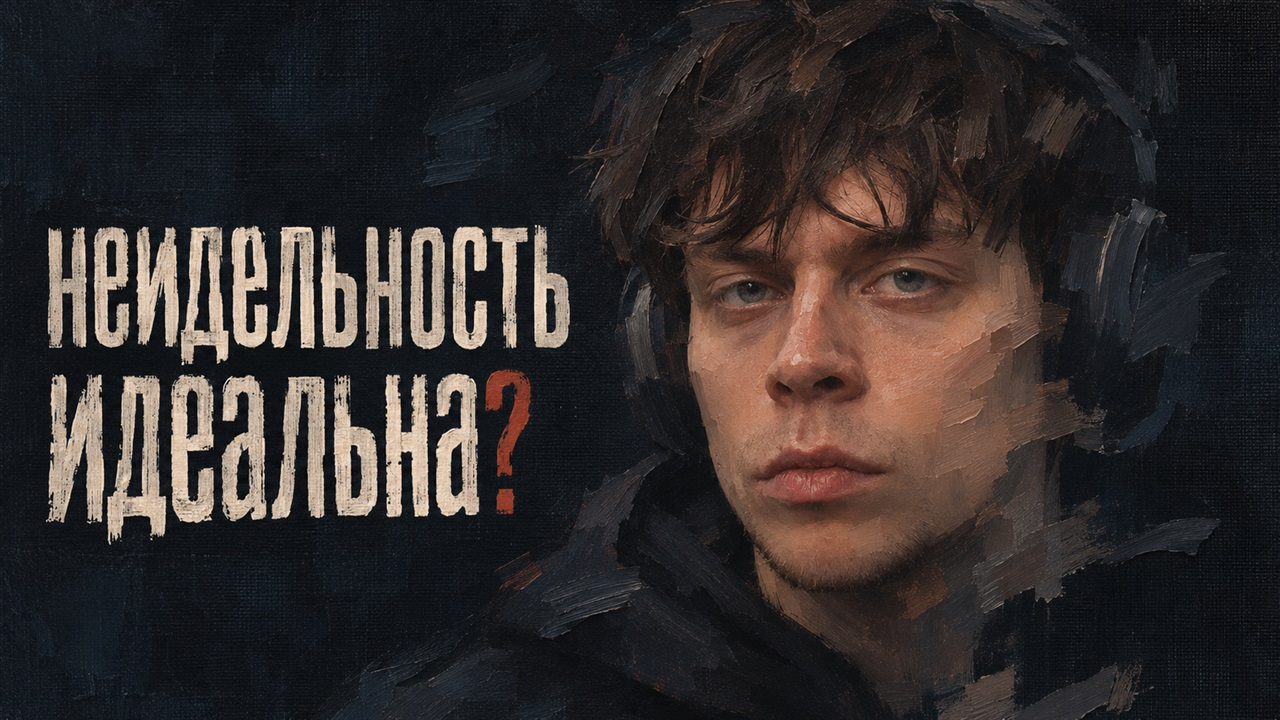
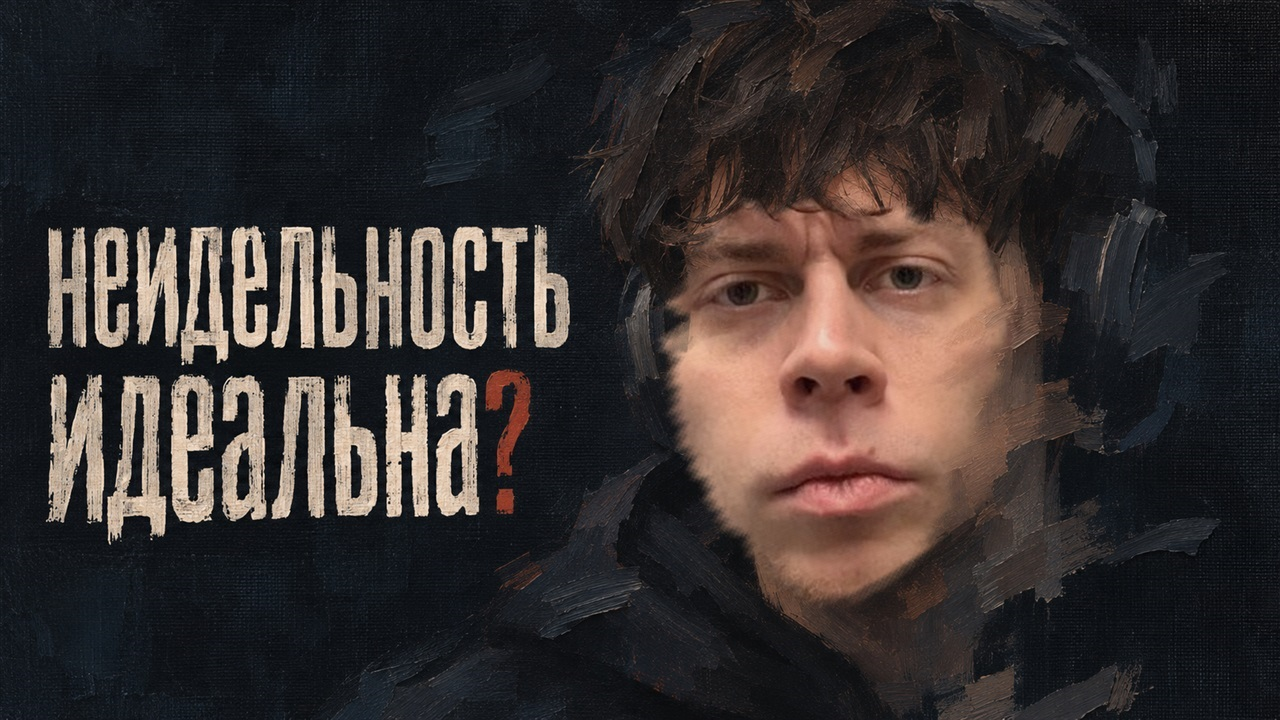
Use original photography in the Frame Tamer thumbnail

Changed region(s): [[0.5, 0.275, 0.8125, 0.8556]]

diff --git a/index.html b/index.html
@@ -29,15 +29,15 @@
         </div>
         <div class="project-grid">
           <figure class="art">
-            <img src="./cover.jpg?v=oil" width="1280" height="720" alt="Портрет Фрейм Тамера на чёрном холсте с неровными мазками по краям. Слева заголовок «неидельность идеальна?».">
+            <img src="./cover.jpg?v=real-face" width="1280" height="720" alt="Лицо Фрейм Тамера с фотографии, обрамлённое мазками на тёмном холсте. Слева заголовок «неидельность идеальна?».">
             <figcaption>Готовая обложка <span>1280 × 720</span></figcaption>
           </figure>
           <div class="case-info">
             <p class="eyebrow">Фрейм Тамер · Концепт</p>
             <h2 id="case-title">Неидельность <br>идеальна?</h2>
             <p>Обложка для видео Фрейм Тамера о его гиперфиксации на перфекционизме.</p>
-            <p>Мазки только намечают края лица и наушники. Из темноты проступают взгляд и черты лица, а часть холста остаётся пустой.</p>
-            <a class="download" href="./cover.jpg?v=oil" download="frame-tamer-youtube-cover.jpg">Скачать обложку <svg aria-hidden="true" width="18" height="18" viewBox="0 0 24 24" fill="none"><path d="M4 13v6h16v-6M8 9l4 4 4-4m-4-5v9" stroke="currentColor" stroke-width="1.6" stroke-linecap="round" stroke-linejoin="round"/></svg></a>
+            <p>Лицо взято с фотографии Фрейм Тамера. Мазки обрамляют взгляд и растворяют края портрета в тёмном холсте.</p>
+            <a class="download" href="./cover.jpg?v=real-face" download="frame-tamer-youtube-cover.jpg">Скачать обложку <svg aria-hidden="true" width="18" height="18" viewBox="0 0 24 24" fill="none"><path d="M4 13v6h16v-6M8 9l4 4 4-4m-4-5v9" stroke="currentColor" stroke-width="1.6" stroke-linecap="round" stroke-linejoin="round"/></svg></a>
           </div>
         </div>
       </div>
